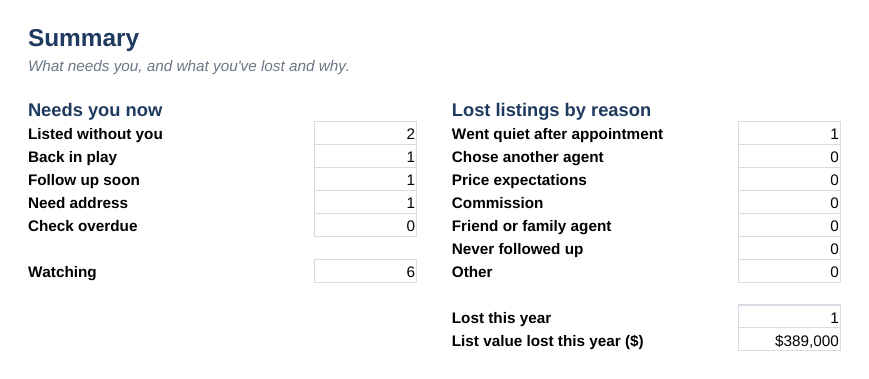
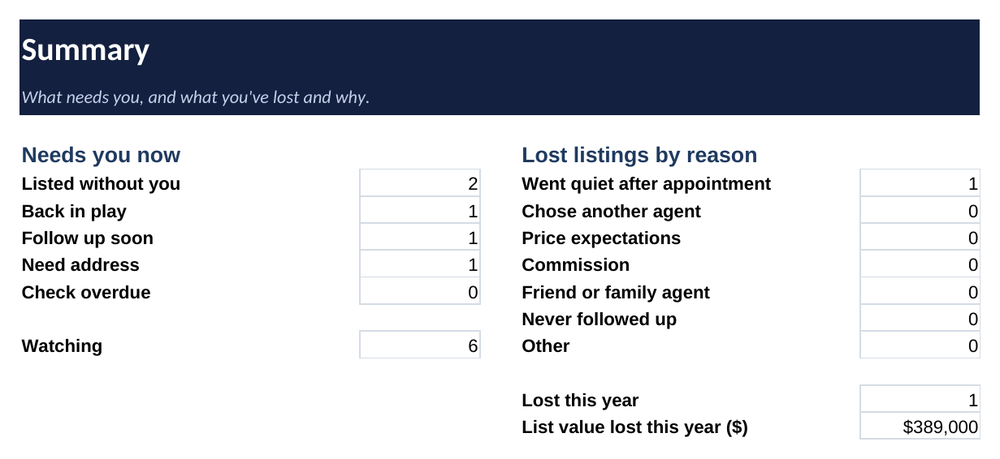
Add interactive KPI demo page, live-dashboard example and refreshed screenshots
Claude-Session: https://claude.ai/code/session_017XgMm3BH1KbaebMLNSHPJr

diff --git a/docs/demo/index.html b/docs/demo/index.html
@@ -1,0 +1,155 @@
+<!doctype html>
+<html lang="en">
+<head>
+<meta charset="utf-8">
+<meta name="viewport" content="width=device-width, initial-scale=1">
+<title>Try the KPI dashboard | Ai Deal Deck</title>
+<meta name="description" content="Play with a sample of the live KPI dashboard Claude builds from your tracker. Change the goal, switch lead sources on and off, and watch the numbers move.">
+<meta property="og:title" content="Try the KPI dashboard | Ai Deal Deck">
+<meta property="og:description" content="Play with a sample of the live KPI dashboard Claude builds from your tracker. Change the goal, switch lead sources on and off, and watch the numbers move.">
+<meta property="og:type" content="website">
+<meta property="og:image" content="https://aidealdeck.com/assets/og.png">
+<meta property="og:url" content="https://aidealdeck.com/demo/">
+<link rel="canonical" href="https://aidealdeck.com/demo/">
+<link rel="icon" href="/assets/favicon.svg" type="image/svg+xml">
+<link rel="preconnect" href="https://fonts.googleapis.com">
+<link rel="preconnect" href="https://fonts.gstatic.com" crossorigin>
+<link href="https://fonts.googleapis.com/css2?family=Inter:wght@400;500;600;700&family=Space+Grotesk:wght@500;600;700&display=swap" rel="stylesheet">
+<link rel="stylesheet" href="/assets/site.css">
+<!-- Google Analytics + Meta Pixel (both skipped when the browser sends a Global Privacy Control signal) -->
+<script>
+window.dataLayer=window.dataLayer||[];function gtag(){dataLayer.push(arguments);}
+if(!navigator.globalPrivacyControl){
+(function(){var g=document.createElement('script');g.async=true;g.src='https://www.googletagmanager.com/gtag/js?id=G-GG42FBV7Z8';document.head.appendChild(g);})();
+gtag('js',new Date());gtag('config','G-GG42FBV7Z8');
+!function(f,b,e,v,n,t,s){if(f.fbq)return;n=f.fbq=function(){n.callMethod?n.callMethod.apply(n,arguments):n.queue.push(arguments)};if(!f._fbq)f._fbq=n;n.push=n;n.loaded=!0;n.version='2.0';n.queue=[];t=b.createElement(e);t.async=!0;t.src=v;s=b.getElementsByTagName(e)[0];s.parentNode.insertBefore(t,s)}(window,document,'script','https://connect.facebook.net/en_US/fbevents.js');
+fbq('init','2684470808323193');
+fbq('track','PageView');
+fbq('track','ViewContent',{content_name:'KPI demo',value:19,currency:'USD'});
+}
+/* Path tracking: tag every buy link with the page, the button position and the ad campaign that brought the visitor. */
+(function(){
+var page=({'/':'deck','/numbers/':'numbers','/free/':'free','/demo/':'demo'})[location.pathname]||'other';
+var ad={};try{var q=new URLSearchParams(location.search);['utm_source','utm_campaign','utm_term'].forEach(function(k){var v=q.get(k);if(v)ad[k]=v.slice(0,80);});
+ if(Object.keys(ad).length){sessionStorage.setItem('ad',JSON.stringify(ad));}else{ad=JSON.parse(sessionStorage.getItem('ad')||'{}');}
+ if(!sessionStorage.getItem('land'))sessionStorage.setItem('land',page);}catch(e){}
+var land=page;try{land=sessionStorage.getItem('land')||page;}catch(e){}
+function pos(a){var m=[['.topbar','topbar'],['.hero','hero'],['.cards','cardgrid'],['.offer','pricebox'],['.stack','deckgrid'],['.alt-buy','textlink']];for(var i=0;i<m.length;i++){if(a.closest(m[i][0]))return m[i][1];}return 'other';}
+function tag(){document.querySelectorAll('a[data-buy]').forEach(function(a){try{var u=new URL(a.href);u.searchParams.set('utm_source',ad.utm_source||'direct');u.searchParams.set('utm_medium','site_'+land);u.searchParams.set('utm_campaign',ad.utm_campaign||'none');u.searchParams.set('utm_content',page+'_'+pos(a));a.href=u.toString();a.setAttribute('data-pos',pos(a));}catch(e){}});}
+if(document.readyState==='loading'){document.addEventListener('DOMContentLoaded',tag);}else{tag();}
+document.addEventListener('click',function(e){var a=e.target.closest('a[data-buy]');if(!a)return;gtag('event','begin_checkout',{item_name:a.getAttribute('data-buy'),value:parseFloat(a.getAttribute('data-value')||'0'),currency:'USD',page:page,landing:land,position:a.getAttribute('data-pos')||''});if(!window.fbq)return;fbq('track','InitiateCheckout',{content_name:a.getAttribute('data-buy'),value:parseFloat(a.getAttribute('data-value')||'0'),currency:'USD',page:page,landing:land,position:a.getAttribute('data-pos')||''});});
+})();
+</script>
+<noscript><img height="1" width="1" style="display:none" alt="" src="https://www.facebook.com/tr?id=2684470808323193&ev=PageView&noscript=1"></noscript>
+<script>
+/* Sale name: Black Friday through Nov 29, Cyber Monday on Nov 30 (Central time). Same price both days. */
+document.addEventListener('DOMContentLoaded',function(){try{var d=new Intl.DateTimeFormat('en-CA',{timeZone:'America/Chicago'}).format(new Date());if(d==='2026-11-30'){document.querySelectorAll('[data-sale]').forEach(function(e){e.textContent='Cyber Monday launch price';});}}catch(e){}});
+</script>
+</head>
+<body>
+<header class="topbar">
+<a class="brand" href="/"><svg width="26" height="26" viewBox="0 0 24 24" fill="none" stroke="#D4AF5A" stroke-width="1.6" aria-hidden="true"><rect x="3" y="6" width="10" height="14" rx="1.5" transform="rotate(-12 8 13)"/><rect x="7" y="4" width="10" height="14" rx="1.5"/><rect x="11" y="6" width="10" height="14" rx="1.5" transform="rotate(12 16 13)"/></svg>Ai Deal Deck</a>
+<nav class="topnav" aria-label="Shop"><a href="/">The Deck</a><a href="/#cards">Single cards</a><a href="/free/">Free cards</a><a href="/demo/">Live demo</a></nav>
+<div class="note">Live demo · sample data</div>
+<a class="btn sm" href="https://shop.aidealdeck.com/l/the-ai-agent-deck?wanted=true" data-buy="The AI Agent Deck" data-value="49">Get the Deck</a>
+</header>
+<main>
+
+<style>
+#demo{background:#0E1730;color:#fff;padding:44px 20px 56px}
+#demo .dw{max-width:1180px;margin:0 auto}
+#demo h1{font-family:'Space Grotesk',Inter,sans-serif;font-size:clamp(28px,4vw,40px);margin:0;color:#fff}
+#demo h1 em{font-style:normal;color:#D4AF5A}
+#demo .sub{color:#8fa0c8;font-size:15px;margin-top:6px;max-width:70ch}
+.dctl{display:grid;grid-template-columns:repeat(auto-fit,minmax(260px,1fr));gap:14px;margin:22px 0 16px}
+.dctl label{display:block;background:#13203F;border:1px solid #D4AF5A;border-radius:14px;padding:14px 16px;font-size:14px;color:#c6d0ea}
+.dctl b{float:right;color:#D4AF5A;font-size:18px;font-family:'Space Grotesk',sans-serif}
+.dctl input{width:100%;margin-top:10px;accent-color:#D4AF5A}
+.dkp{display:grid;grid-template-columns:repeat(auto-fit,minmax(190px,1fr));gap:14px;margin-bottom:14px}
+.dt{background:#13203F;border:1px solid #26366a;border-radius:14px;padding:16px 18px;min-width:0}
+.dt.g{border-color:#D4AF5A;background:linear-gradient(160deg,#1a2a55,#13203F)}
+.dt .l{font-size:12px;letter-spacing:.1em;text-transform:uppercase;color:#8fa0c8;font-weight:700}
+.dt .v{font-family:'Space Grotesk',sans-serif;font-weight:700;font-size:34px;margin-top:6px;font-variant-numeric:tabular-nums}
+.dt.g .v{color:#D4AF5A}
+.dt .n{font-size:13px;color:#c6d0ea;margin-top:4px}
+.dbar{height:10px;background:#0b1226;border-radius:99px;margin-top:10px;overflow:hidden}.dbar i{display:block;height:100%;background:linear-gradient(90deg,#9c7d33,#D4AF5A);transition:width .35s}
+.dg{display:grid;grid-template-columns:repeat(auto-fit,minmax(320px,1fr));gap:14px}
+.dp{background:#13203F;border:1px solid #26366a;border-radius:14px;padding:16px 20px;min-width:0}
+.dp h3{margin:0 0 4px;font-family:'Space Grotesk',sans-serif;font-size:18px;color:#fff}
+.dp .hint{font-size:13px;color:#8fa0c8;margin-bottom:10px}
+.drow{display:grid;grid-template-columns:minmax(110px,150px) 1fr 84px;gap:10px;align-items:center;margin:8px 0;font-size:15px}
+.drow span{color:#c6d0ea}.drow i{height:20px;border-radius:5px;background:#D4AF5A;transition:width .35s;min-width:2px}.drow b{text-align:right;font-variant-numeric:tabular-nums}
+button.drow{width:100%;background:none;border:0;color:inherit;font:inherit;padding:6px 8px;margin:2px -8px;border-radius:8px;cursor:pointer;text-align:left}
+button.drow:hover{background:#1a2a55}button.drow:focus-visible{outline:2px solid #D4AF5A}
+button.drow.off span{text-decoration:line-through;color:#5a6686}button.drow.off i{background:#26366a}button.drow.off b{color:#5a6686}
+.dnote{margin-top:18px;color:#8fa0c8;font-size:13px}
+.dcta{display:flex;flex-wrap:wrap;gap:12px;align-items:center;margin-top:22px}
+</style>
+<section id="demo">
+<div class="dw">
+<h1>Try the <em>KPI dashboard</em></h1>
+<p class="sub">This is a working sample of the live dashboard Claude builds from your KPI Tracker. Move the sliders and switch lead sources off to see what each one is really worth. Sample data; yours runs on your own numbers and may look different.</p>
+
+<div class="dctl">
+<label>Yearly GCI goal <b id="o-goal"></b><input id="i-goal" type="range" min="100000" max="600000" step="10000" value="300000" aria-label="Yearly GCI goal"></label>
+<label>Average GCI per closing <b id="o-avg"></b><input id="i-avg" type="range" min="5000" max="25000" step="500" value="12000" aria-label="Average GCI per closing"></label>
+<label>Weeks left in the year <b id="o-wk"></b><input id="i-wk" type="range" min="1" max="52" step="1" value="5" aria-label="Weeks left in the year"></label>
+</div>
+
+<div class="dkp">
+<div class="dt g"><div class="l">Closed GCI this year</div><div class="v" id="k-gci"></div><div class="n" id="k-pct"></div><div class="dbar"><i id="k-bar"></i></div></div>
+<div class="dt"><div class="l">Needed per week</div><div class="v" id="k-week"></div><div class="n" id="k-left"></div></div>
+<div class="dt"><div class="l">Closings still needed</div><div class="v" id="k-need"></div><div class="n" id="k-done"></div></div>
+<div class="dt"><div class="l">Lead to closed</div><div class="v" id="k-conv"></div><div class="n" id="k-leads"></div></div>
+<div class="dt"><div class="l">Cost per closing</div><div class="v" id="k-cpc"></div><div class="n" id="k-spend"></div></div>
+</div>
+
+<div class="dg">
+<div class="dp"><h3>Closed GCI by lead source</h3><div class="hint">Click a source to switch it off and see what you would lose.</div><div id="d-src"></div></div>
+<div class="dp"><h3>Your funnel this year</h3><div class="hint">Where deals drop out, lead to closed.</div><div id="d-fun"></div></div>
+</div>
+
+<p class="dnote">Sample data for a made-up team. The KPI Tracker card includes the spreadsheet these numbers come from, and Claude builds the live dashboard with you during setup. Needs your own Claude account.</p>
+<div class="dcta">
+<a class="btn" href="https://shop.aidealdeck.com/l/the-ai-agent-deck?wanted=true" data-buy="The AI Agent Deck" data-value="49">Get all 5 cards: <s class="strike sm">$199</s> $49 <svg width="20" height="20" viewBox="0 0 24 24" fill="none" stroke="currentColor" stroke-width="2.4" aria-hidden="true"><path d="M5 12h14M13 6l6 6-6 6"/></svg></a>
+<a class="link-quiet" style="color:#c6d0ea" href="https://shop.aidealdeck.com/l/real-estate-kpi-tracker?wanted=true" data-buy="Real Estate KPI Tracker" data-value="19">or just the KPI Tracker for <s>$49</s> $19</a>
+</div>
+</div>
+</section>
+<script>
+(function(){
+var S=[["Zillow",10800,45,21,16,9,5,65510],["Sign calls",0,15,7,6,4,3,34580],["Website",1800,20,7,4,3,3,33960],["Sphere & referrals",0,25,13,9,4,3,33350],["Realtor.com",4800,30,6,4,1,1,11000],["Open houses",600,15,4,3,0,0,0]];
+var on=S.map(function(){return true}); var $=function(i){return document.getElementById(i)};
+var usd=function(n){return (n<0?'-$':'$')+Math.abs(Math.round(n)).toLocaleString('en-US')};
+var src=$('d-src'); S.forEach(function(s,i){var b=document.createElement('button');b.type='button';b.className='drow';b.setAttribute('aria-pressed','true');b.innerHTML='<span></span><i></i><b></b>';b.firstChild.textContent=s[0];b.addEventListener('click',function(){on[i]=!on[i];b.classList.toggle('off',!on[i]);b.setAttribute('aria-pressed',on[i]?'true':'false');draw();});src.appendChild(b);});
+var F=["Leads","Appointments set","Appointments held","Signed","Closed"]; var fun=$('d-fun'); F.forEach(function(n){var d=document.createElement('div');d.className='drow';d.innerHTML='<span></span><i></i><b></b>';d.firstChild.textContent=n;fun.appendChild(d);});
+function draw(){
+  var goal=+$('i-goal').value, avg=+$('i-avg').value, wk=+$('i-wk').value;
+  $('o-goal').textContent=usd(goal); $('o-avg').textContent=usd(avg); $('o-wk').textContent=wk;
+  var t=[0,0,0,0,0,0,0]; S.forEach(function(s,i){if(on[i])for(var k=1;k<8;k++)t[k-1]+=s[k];});
+  var gci=t[6], closed=t[5], leads=t[1], togo=Math.max(0,goal-gci);
+  $('k-gci').textContent=usd(gci); $('k-pct').textContent=(goal?(gci/goal*100).toFixed(1):'0')+'% of your '+usd(goal)+' goal'; $('k-bar').style.width=Math.min(100,goal?gci/goal*100:0)+'%';
+  $('k-week').textContent=togo?usd(togo/wk):'Goal met'; $('k-left').textContent=usd(togo)+' still to go';
+  $('k-need').textContent=Math.ceil(togo/avg); $('k-done').textContent=closed+' closed so far';
+  $('k-conv').textContent=leads?(closed/leads*100).toFixed(1)+'%':'—'; $('k-leads').textContent=leads+' leads this year';
+  $('k-cpc').textContent=closed?usd(t[0]/closed):'—'; $('k-spend').textContent=usd(t[0])+' spent on leads';
+  var mx=Math.max.apply(null,S.map(function(s){return s[7]}));
+  [].forEach.call(src.children,function(b,i){b.children[1].style.width=(S[i][7]/mx*100)+'%';b.children[2].textContent=usd(S[i][7]);});
+  var fv=[t[1],t[2],t[3],t[4],t[5]]; [].forEach.call(fun.children,function(d,i){d.children[1].style.width=(fv[0]?fv[i]/fv[0]*100:0)+'%';d.children[2].textContent=fv[i];});
+}
+['i-goal','i-avg','i-wk'].forEach(function(i){$(i).addEventListener('input',draw)}); draw();
+})();
+</script>
+</main>
+<footer>
+<div class="wrap">
+<div style="max-width:720px">Ai Deal Deck is a brand of The Showing Partner LLC. Not affiliated with or endorsed by any brokerage, MLS, trade association, Anthropic, Google or CRM. Claude is a trademark of Anthropic, PBC. No guarantee of results. Not legal, tax, financial or brokerage advice.</div>
+<nav aria-label="Legal">
+<a href="/terms/">Terms</a>
+<a href="/privacy/">Privacy</a>
+<a href="mailto:support@aidealdeck.com">support@aidealdeck.com</a>
+</nav>
+</div>
+</footer>
+</body>
+</html>

diff --git a/src/demo.html b/src/demo.html
@@ -1,0 +1,87 @@
+<!--META {"out":"demo/index.html","path":"/demo/","title":"Try the KPI dashboard | Ai Deal Deck","desc":"Play with a sample of the live KPI dashboard Claude builds from your tracker. Change the goal, switch lead sources on and off, and watch the numbers move.","topnote":"Live demo · sample data","topbtn":"<a class=\"btn sm\" href=\"{{DECK}}\" data-buy=\"The AI Agent Deck\" data-value=\"49\">Get the Deck</a>","pixel":"fbq('track','ViewContent',{content_name:'KPI demo',value:19,currency:'USD'});"} -->
+
+<style>
+#demo{background:#0E1730;color:#fff;padding:44px 20px 56px}
+#demo .dw{max-width:1180px;margin:0 auto}
+#demo h1{font-family:'Space Grotesk',Inter,sans-serif;font-size:clamp(28px,4vw,40px);margin:0;color:#fff}
+#demo h1 em{font-style:normal;color:#D4AF5A}
+#demo .sub{color:#8fa0c8;font-size:15px;margin-top:6px;max-width:70ch}
+.dctl{display:grid;grid-template-columns:repeat(auto-fit,minmax(260px,1fr));gap:14px;margin:22px 0 16px}
+.dctl label{display:block;background:#13203F;border:1px solid #D4AF5A;border-radius:14px;padding:14px 16px;font-size:14px;color:#c6d0ea}
+.dctl b{float:right;color:#D4AF5A;font-size:18px;font-family:'Space Grotesk',sans-serif}
+.dctl input{width:100%;margin-top:10px;accent-color:#D4AF5A}
+.dkp{display:grid;grid-template-columns:repeat(auto-fit,minmax(190px,1fr));gap:14px;margin-bottom:14px}
+.dt{background:#13203F;border:1px solid #26366a;border-radius:14px;padding:16px 18px;min-width:0}
+.dt.g{border-color:#D4AF5A;background:linear-gradient(160deg,#1a2a55,#13203F)}
+.dt .l{font-size:12px;letter-spacing:.1em;text-transform:uppercase;color:#8fa0c8;font-weight:700}
+.dt .v{font-family:'Space Grotesk',sans-serif;font-weight:700;font-size:34px;margin-top:6px;font-variant-numeric:tabular-nums}
+.dt.g .v{color:#D4AF5A}
+.dt .n{font-size:13px;color:#c6d0ea;margin-top:4px}
+.dbar{height:10px;background:#0b1226;border-radius:99px;margin-top:10px;overflow:hidden}.dbar i{display:block;height:100%;background:linear-gradient(90deg,#9c7d33,#D4AF5A);transition:width .35s}
+.dg{display:grid;grid-template-columns:repeat(auto-fit,minmax(320px,1fr));gap:14px}
+.dp{background:#13203F;border:1px solid #26366a;border-radius:14px;padding:16px 20px;min-width:0}
+.dp h3{margin:0 0 4px;font-family:'Space Grotesk',sans-serif;font-size:18px;color:#fff}
+.dp .hint{font-size:13px;color:#8fa0c8;margin-bottom:10px}
+.drow{display:grid;grid-template-columns:minmax(110px,150px) 1fr 84px;gap:10px;align-items:center;margin:8px 0;font-size:15px}
+.drow span{color:#c6d0ea}.drow i{height:20px;border-radius:5px;background:#D4AF5A;transition:width .35s;min-width:2px}.drow b{text-align:right;font-variant-numeric:tabular-nums}
+button.drow{width:100%;background:none;border:0;color:inherit;font:inherit;padding:6px 8px;margin:2px -8px;border-radius:8px;cursor:pointer;text-align:left}
+button.drow:hover{background:#1a2a55}button.drow:focus-visible{outline:2px solid #D4AF5A}
+button.drow.off span{text-decoration:line-through;color:#5a6686}button.drow.off i{background:#26366a}button.drow.off b{color:#5a6686}
+.dnote{margin-top:18px;color:#8fa0c8;font-size:13px}
+.dcta{display:flex;flex-wrap:wrap;gap:12px;align-items:center;margin-top:22px}
+</style>
+<section id="demo">
+<div class="dw">
+<h1>Try the <em>KPI dashboard</em></h1>
+<p class="sub">This is a working sample of the live dashboard Claude builds from your KPI Tracker. Move the sliders and switch lead sources off to see what each one is really worth. Sample data; yours runs on your own numbers and may look different.</p>
+
+<div class="dctl">
+<label>Yearly GCI goal <b id="o-goal"></b><input id="i-goal" type="range" min="100000" max="600000" step="10000" value="300000" aria-label="Yearly GCI goal"></label>
+<label>Average GCI per closing <b id="o-avg"></b><input id="i-avg" type="range" min="5000" max="25000" step="500" value="12000" aria-label="Average GCI per closing"></label>
+<label>Weeks left in the year <b id="o-wk"></b><input id="i-wk" type="range" min="1" max="52" step="1" value="5" aria-label="Weeks left in the year"></label>
+</div>
+
+<div class="dkp">
+<div class="dt g"><div class="l">Closed GCI this year</div><div class="v" id="k-gci"></div><div class="n" id="k-pct"></div><div class="dbar"><i id="k-bar"></i></div></div>
+<div class="dt"><div class="l">Needed per week</div><div class="v" id="k-week"></div><div class="n" id="k-left"></div></div>
+<div class="dt"><div class="l">Closings still needed</div><div class="v" id="k-need"></div><div class="n" id="k-done"></div></div>
+<div class="dt"><div class="l">Lead to closed</div><div class="v" id="k-conv"></div><div class="n" id="k-leads"></div></div>
+<div class="dt"><div class="l">Cost per closing</div><div class="v" id="k-cpc"></div><div class="n" id="k-spend"></div></div>
+</div>
+
+<div class="dg">
+<div class="dp"><h3>Closed GCI by lead source</h3><div class="hint">Click a source to switch it off and see what you would lose.</div><div id="d-src"></div></div>
+<div class="dp"><h3>Your funnel this year</h3><div class="hint">Where deals drop out, lead to closed.</div><div id="d-fun"></div></div>
+</div>
+
+<p class="dnote">Sample data for a made-up team. The KPI Tracker card includes the spreadsheet these numbers come from, and Claude builds the live dashboard with you during setup. Needs your own Claude account.</p>
+<div class="dcta">
+<a class="btn" href="{{DECK}}" data-buy="The AI Agent Deck" data-value="49">Get all 5 cards: <s class="strike sm">$199</s> $49 {{ARROW}}</a>
+<a class="link-quiet" style="color:#c6d0ea" href="{{KPI}}" data-buy="Real Estate KPI Tracker" data-value="19">or just the KPI Tracker for <s>$49</s> $19</a>
+</div>
+</div>
+</section>
+<script>
+(function(){
+var S=[["Zillow",10800,45,21,16,9,5,65510],["Sign calls",0,15,7,6,4,3,34580],["Website",1800,20,7,4,3,3,33960],["Sphere & referrals",0,25,13,9,4,3,33350],["Realtor.com",4800,30,6,4,1,1,11000],["Open houses",600,15,4,3,0,0,0]];
+var on=S.map(function(){return true}); var $=function(i){return document.getElementById(i)};
+var usd=function(n){return (n<0?'-$':'$')+Math.abs(Math.round(n)).toLocaleString('en-US')};
+var src=$('d-src'); S.forEach(function(s,i){var b=document.createElement('button');b.type='button';b.className='drow';b.setAttribute('aria-pressed','true');b.innerHTML='<span></span><i></i><b></b>';b.firstChild.textContent=s[0];b.addEventListener('click',function(){on[i]=!on[i];b.classList.toggle('off',!on[i]);b.setAttribute('aria-pressed',on[i]?'true':'false');draw();});src.appendChild(b);});
+var F=["Leads","Appointments set","Appointments held","Signed","Closed"]; var fun=$('d-fun'); F.forEach(function(n){var d=document.createElement('div');d.className='drow';d.innerHTML='<span></span><i></i><b></b>';d.firstChild.textContent=n;fun.appendChild(d);});
+function draw(){
+  var goal=+$('i-goal').value, avg=+$('i-avg').value, wk=+$('i-wk').value;
+  $('o-goal').textContent=usd(goal); $('o-avg').textContent=usd(avg); $('o-wk').textContent=wk;
+  var t=[0,0,0,0,0,0,0]; S.forEach(function(s,i){if(on[i])for(var k=1;k<8;k++)t[k-1]+=s[k];});
+  var gci=t[6], closed=t[5], leads=t[1], togo=Math.max(0,goal-gci);
+  $('k-gci').textContent=usd(gci); $('k-pct').textContent=(goal?(gci/goal*100).toFixed(1):'0')+'% of your '+usd(goal)+' goal'; $('k-bar').style.width=Math.min(100,goal?gci/goal*100:0)+'%';
+  $('k-week').textContent=togo?usd(togo/wk):'Goal met'; $('k-left').textContent=usd(togo)+' still to go';
+  $('k-need').textContent=Math.ceil(togo/avg); $('k-done').textContent=closed+' closed so far';
+  $('k-conv').textContent=leads?(closed/leads*100).toFixed(1)+'%':'—'; $('k-leads').textContent=leads+' leads this year';
+  $('k-cpc').textContent=closed?usd(t[0]/closed):'—'; $('k-spend').textContent=usd(t[0])+' spent on leads';
+  var mx=Math.max.apply(null,S.map(function(s){return s[7]}));
+  [].forEach.call(src.children,function(b,i){b.children[1].style.width=(S[i][7]/mx*100)+'%';b.children[2].textContent=usd(S[i][7]);});
+  var fv=[t[1],t[2],t[3],t[4],t[5]]; [].forEach.call(fun.children,function(d,i){d.children[1].style.width=(fv[0]?fv[i]/fv[0]*100:0)+'%';d.children[2].textContent=fv[i];});
+}
+['i-goal','i-avg','i-wk'].forEach(function(i){$(i).addEventListener('input',draw)}); draw();
+})();
+</script>

diff --git a/docs/index.html b/docs/index.html
@@ -29,7 +29,7 @@ fbq('track','ViewContent',{content_name:'The AI Agent Deck',value:49,currency:'U
 }
 /* Path tracking: tag every buy link with the page, the button position and the ad campaign that brought the visitor. */
 (function(){
-var page=({'/':'deck','/numbers/':'numbers','/free/':'free'})[location.pathname]||'other';
+var page=({'/':'deck','/numbers/':'numbers','/free/':'free','/demo/':'demo'})[location.pathname]||'other';
 var ad={};try{var q=new URLSearchParams(location.search);['utm_source','utm_campaign','utm_term'].forEach(function(k){var v=q.get(k);if(v)ad[k]=v.slice(0,80);});
  if(Object.keys(ad).length){sessionStorage.setItem('ad',JSON.stringify(ad));}else{ad=JSON.parse(sessionStorage.getItem('ad')||'{}');}
  if(!sessionStorage.getItem('land'))sessionStorage.setItem('land',page);}catch(e){}
@@ -49,7 +49,7 @@ document.addEventListener('DOMContentLoaded',function(){try{var d=new Intl.DateT
 <body>
 <header class="topbar">
 <a class="brand" href="/"><svg width="26" height="26" viewBox="0 0 24 24" fill="none" stroke="#D4AF5A" stroke-width="1.6" aria-hidden="true"><rect x="3" y="6" width="10" height="14" rx="1.5" transform="rotate(-12 8 13)"/><rect x="7" y="4" width="10" height="14" rx="1.5"/><rect x="11" y="6" width="10" height="14" rx="1.5" transform="rotate(12 16 13)"/></svg>Ai Deal Deck</a>
-<nav class="topnav" aria-label="Shop"><a href="/">The Deck</a><a href="/#cards">Single cards</a><a href="/free/">Free cards</a></nav>
+<nav class="topnav" aria-label="Shop"><a href="/">The Deck</a><a href="/#cards">Single cards</a><a href="/free/">Free cards</a><a href="/demo/">Live demo</a></nav>
 <div class="note"><span data-sale>Black Friday launch price</span> $49 through Nov 30 · regular price $199 from Dec 1</div>
 <a class="btn sm" href="https://shop.aidealdeck.com/l/the-ai-agent-deck?wanted=true" data-buy="The AI Agent Deck" data-value="49">Get the Deck</a>
 </header>
@@ -144,7 +144,7 @@ document.addEventListener('DOMContentLoaded',function(){try{var d=new Intl.DateT
 </div>
 </section>
 
-<section class="white"><div class="wrap"><h2 class="h2 center">See it before you buy</h2><video controls playsinline preload="none" poster="/assets/video/kpi-tracker.jpg" style="display:block;width:100%;max-width:960px;aspect-ratio:16/9;margin:28px auto 8px;border-radius:16px;border:1px solid rgba(212,175,90,.55);background:#0E1730"><source src="/assets/video/kpi-tracker.mp4" type="video/mp4"></video><p class="center" style="color:var(--muted);margin:0 0 28px">The KPI Tracker dashboard, 23 seconds. Sample data.</p><div class="shots"><figure class="shot" style="margin:0"><img src="/assets/shots/kpi.png" alt="KPI Tracker funnel view (sample data)"><figcaption>KPI Tracker funnel view (sample data)</figcaption></figure><figure class="shot" style="margin:0"><img src="/assets/shots/gci.png" alt="Commission &amp; GCI Ledger (sample data)"><figcaption>Commission &amp; GCI Ledger (sample data)</figcaption></figure><figure class="shot" style="margin:0"><img src="/assets/shots/watch.png" alt="Listing Watchdog summary (sample data)"><figcaption>Listing Watchdog summary (sample data)</figcaption></figure></div></div></section>
+<section class="white"><div class="wrap"><h2 class="h2 center">See it before you buy</h2><video controls playsinline preload="none" poster="/assets/video/kpi-tracker.jpg" style="display:block;width:100%;max-width:960px;aspect-ratio:16/9;margin:28px auto 8px;border-radius:16px;border:1px solid rgba(212,175,90,.55);background:#0E1730"><source src="/assets/video/kpi-tracker.mp4" type="video/mp4"></video><p class="center" style="color:var(--muted);margin:0 0 28px">The KPI Tracker, 23 seconds. Sample data. <a href="/demo/"><b>Play with the live demo</b></a></p><div class="shots"><figure class="shot" style="margin:0"><img src="/assets/shots/live.png" alt="Example of the live dashboard Claude builds from your KPI Tracker (sample data; yours may look different)"><figcaption>Example of the live dashboard Claude builds from your KPI Tracker (sample data; yours may look different)</figcaption></figure><figure class="shot" style="margin:0"><img src="/assets/shots/kpi.png" alt="KPI Tracker spreadsheet dashboard (sample data)"><figcaption>KPI Tracker spreadsheet dashboard (sample data)</figcaption></figure><figure class="shot" style="margin:0"><img src="/assets/shots/gci.png" alt="Commission &amp; GCI Ledger (sample data)"><figcaption>Commission &amp; GCI Ledger (sample data)</figcaption></figure><figure class="shot" style="margin:0"><img src="/assets/shots/watch.png" alt="Listing Watchdog summary (sample data)"><figcaption>Listing Watchdog summary (sample data)</figcaption></figure></div></div></section>
 
 <section id="buy" class="dark">
 <div class="offer">

diff --git a/docs/numbers/index.html b/docs/numbers/index.html
@@ -29,7 +29,7 @@ fbq('track','ViewContent',{content_name:'KPI hook',value:49,currency:'USD'});
 }
 /* Path tracking: tag every buy link with the page, the button position and the ad campaign that brought the visitor. */
 (function(){
-var page=({'/':'deck','/numbers/':'numbers','/free/':'free'})[location.pathname]||'other';
+var page=({'/':'deck','/numbers/':'numbers','/free/':'free','/demo/':'demo'})[location.pathname]||'other';
 var ad={};try{var q=new URLSearchParams(location.search);['utm_source','utm_campaign','utm_term'].forEach(function(k){var v=q.get(k);if(v)ad[k]=v.slice(0,80);});
  if(Object.keys(ad).length){sessionStorage.setItem('ad',JSON.stringify(ad));}else{ad=JSON.parse(sessionStorage.getItem('ad')||'{}');}
  if(!sessionStorage.getItem('land'))sessionStorage.setItem('land',page);}catch(e){}
@@ -49,7 +49,7 @@ document.addEventListener('DOMContentLoaded',function(){try{var d=new Intl.DateT
 <body>
 <header class="topbar">
 <a class="brand" href="/"><svg width="26" height="26" viewBox="0 0 24 24" fill="none" stroke="#D4AF5A" stroke-width="1.6" aria-hidden="true"><rect x="3" y="6" width="10" height="14" rx="1.5" transform="rotate(-12 8 13)"/><rect x="7" y="4" width="10" height="14" rx="1.5"/><rect x="11" y="6" width="10" height="14" rx="1.5" transform="rotate(12 16 13)"/></svg>Ai Deal Deck</a>
-<nav class="topnav" aria-label="Shop"><a href="/">The Deck</a><a href="/#cards">Single cards</a><a href="/free/">Free cards</a></nav>
+<nav class="topnav" aria-label="Shop"><a href="/">The Deck</a><a href="/#cards">Single cards</a><a href="/free/">Free cards</a><a href="/demo/">Live demo</a></nav>
 <div class="note">The AI Agent Deck · $49 <span data-sale>Black Friday launch price</span> through Nov 30</div>
 <a class="btn sm" href="https://shop.aidealdeck.com/l/the-ai-agent-deck?wanted=true" data-buy="The AI Agent Deck" data-value="49">Get the Deck</a>
 </header>
@@ -97,7 +97,7 @@ document.addEventListener('DOMContentLoaded',function(){try{var d=new Intl.DateT
 <div class="tile"><h3>Which sources pay</h3><p>Which lead sources produce closings, and what each one costs per closing.</p></div>
 <div class="tile"><h3>Your real rates</h3><p>Starts on clearly labeled starting averages, then switches to your own conversion rates as your year fills in.</p></div>
 </div>
-<div class="shots" style="grid-template-columns:1fr"><figure class="shot" style="margin:0"><img src="/assets/shots/kpi.png" alt="KPI Tracker funnel view (sample data)"><figcaption>KPI Tracker funnel view (sample data)</figcaption></figure></div>
+<div class="shots" style="grid-template-columns:1fr"><figure class="shot" style="margin:0"><img src="/assets/shots/kpi.png" alt="KPI Tracker spreadsheet dashboard (sample data)"><figcaption>KPI Tracker spreadsheet dashboard (sample data)</figcaption></figure></div>
 </div>
 </section>
 

diff --git a/docs/free/index.html b/docs/free/index.html
@@ -29,7 +29,7 @@ fbq('track','ViewContent',{content_name:'Free hook',value:0,currency:'USD'});
 }
 /* Path tracking: tag every buy link with the page, the button position and the ad campaign that brought the visitor. */
 (function(){
-var page=({'/':'deck','/numbers/':'numbers','/free/':'free'})[location.pathname]||'other';
+var page=({'/':'deck','/numbers/':'numbers','/free/':'free','/demo/':'demo'})[location.pathname]||'other';
 var ad={};try{var q=new URLSearchParams(location.search);['utm_source','utm_campaign','utm_term'].forEach(function(k){var v=q.get(k);if(v)ad[k]=v.slice(0,80);});
  if(Object.keys(ad).length){sessionStorage.setItem('ad',JSON.stringify(ad));}else{ad=JSON.parse(sessionStorage.getItem('ad')||'{}');}
  if(!sessionStorage.getItem('land'))sessionStorage.setItem('land',page);}catch(e){}
@@ -49,7 +49,7 @@ document.addEventListener('DOMContentLoaded',function(){try{var d=new Intl.DateT
 <body>
 <header class="topbar">
 <a class="brand" href="/"><svg width="26" height="26" viewBox="0 0 24 24" fill="none" stroke="#D4AF5A" stroke-width="1.6" aria-hidden="true"><rect x="3" y="6" width="10" height="14" rx="1.5" transform="rotate(-12 8 13)"/><rect x="7" y="4" width="10" height="14" rx="1.5"/><rect x="11" y="6" width="10" height="14" rx="1.5" transform="rotate(12 16 13)"/></svg>Ai Deal Deck</a>
-<nav class="topnav" aria-label="Shop"><a href="/">The Deck</a><a href="/#cards">Single cards</a><a href="/free/">Free cards</a></nav>
+<nav class="topnav" aria-label="Shop"><a href="/">The Deck</a><a href="/#cards">Single cards</a><a href="/free/">Free cards</a><a href="/demo/">Live demo</a></nav>
 <div class="note">Free download · no card needed</div>
 <a class="btn sm" href="https://shop.aidealdeck.com/l/free-ai-agent-deck-bonuses" data-buy="Free bonus cards" data-value="0">Get it free</a>
 </header>

diff --git a/src/_head.html b/src/_head.html
@@ -29,7 +29,7 @@ fbq('track','PageView');
 }
 /* Path tracking: tag every buy link with the page, the button position and the ad campaign that brought the visitor. */
 (function(){
-var page=({'/':'deck','/numbers/':'numbers','/free/':'free'})[location.pathname]||'other';
+var page=({'/':'deck','/numbers/':'numbers','/free/':'free','/demo/':'demo'})[location.pathname]||'other';
 var ad={};try{var q=new URLSearchParams(location.search);['utm_source','utm_campaign','utm_term'].forEach(function(k){var v=q.get(k);if(v)ad[k]=v.slice(0,80);});
  if(Object.keys(ad).length){sessionStorage.setItem('ad',JSON.stringify(ad));}else{ad=JSON.parse(sessionStorage.getItem('ad')||'{}');}
  if(!sessionStorage.getItem('land'))sessionStorage.setItem('land',page);}catch(e){}
@@ -49,7 +49,7 @@ document.addEventListener('DOMContentLoaded',function(){try{var d=new Intl.DateT
 <body>
 <header class="topbar">
 <a class="brand" href="/"><svg width="26" height="26" viewBox="0 0 24 24" fill="none" stroke="#D4AF5A" stroke-width="1.6" aria-hidden="true"><rect x="3" y="6" width="10" height="14" rx="1.5" transform="rotate(-12 8 13)"/><rect x="7" y="4" width="10" height="14" rx="1.5"/><rect x="11" y="6" width="10" height="14" rx="1.5" transform="rotate(12 16 13)"/></svg>Ai Deal Deck</a>
-<nav class="topnav" aria-label="Shop"><a href="/">The Deck</a><a href="/#cards">Single cards</a><a href="/free/">Free cards</a></nav>
+<nav class="topnav" aria-label="Shop"><a href="/">The Deck</a><a href="/#cards">Single cards</a><a href="/free/">Free cards</a><a href="/demo/">Live demo</a></nav>
 <div class="note">{{TOPNOTE}}</div>
 {{TOPBTN}}
 </header>

diff --git a/docs/privacy/index.html b/docs/privacy/index.html
@@ -29,7 +29,7 @@ fbq('track','PageView');
 }
 /* Path tracking: tag every buy link with the page, the button position and the ad campaign that brought the visitor. */
 (function(){
-var page=({'/':'deck','/numbers/':'numbers','/free/':'free'})[location.pathname]||'other';
+var page=({'/':'deck','/numbers/':'numbers','/free/':'free','/demo/':'demo'})[location.pathname]||'other';
 var ad={};try{var q=new URLSearchParams(location.search);['utm_source','utm_campaign','utm_term'].forEach(function(k){var v=q.get(k);if(v)ad[k]=v.slice(0,80);});
  if(Object.keys(ad).length){sessionStorage.setItem('ad',JSON.stringify(ad));}else{ad=JSON.parse(sessionStorage.getItem('ad')||'{}');}
  if(!sessionStorage.getItem('land'))sessionStorage.setItem('land',page);}catch(e){}
@@ -49,7 +49,7 @@ document.addEventListener('DOMContentLoaded',function(){try{var d=new Intl.DateT
 <body>
 <header class="topbar">
 <a class="brand" href="/"><svg width="26" height="26" viewBox="0 0 24 24" fill="none" stroke="#D4AF5A" stroke-width="1.6" aria-hidden="true"><rect x="3" y="6" width="10" height="14" rx="1.5" transform="rotate(-12 8 13)"/><rect x="7" y="4" width="10" height="14" rx="1.5"/><rect x="11" y="6" width="10" height="14" rx="1.5" transform="rotate(12 16 13)"/></svg>Ai Deal Deck</a>
-<nav class="topnav" aria-label="Shop"><a href="/">The Deck</a><a href="/#cards">Single cards</a><a href="/free/">Free cards</a></nav>
+<nav class="topnav" aria-label="Shop"><a href="/">The Deck</a><a href="/#cards">Single cards</a><a href="/free/">Free cards</a><a href="/demo/">Live demo</a></nav>
 <div class="note"></div>
 
 </header>

diff --git a/docs/terms/index.html b/docs/terms/index.html
@@ -29,7 +29,7 @@ fbq('track','PageView');
 }
 /* Path tracking: tag every buy link with the page, the button position and the ad campaign that brought the visitor. */
 (function(){
-var page=({'/':'deck','/numbers/':'numbers','/free/':'free'})[location.pathname]||'other';
+var page=({'/':'deck','/numbers/':'numbers','/free/':'free','/demo/':'demo'})[location.pathname]||'other';
 var ad={};try{var q=new URLSearchParams(location.search);['utm_source','utm_campaign','utm_term'].forEach(function(k){var v=q.get(k);if(v)ad[k]=v.slice(0,80);});
  if(Object.keys(ad).length){sessionStorage.setItem('ad',JSON.stringify(ad));}else{ad=JSON.parse(sessionStorage.getItem('ad')||'{}');}
  if(!sessionStorage.getItem('land'))sessionStorage.setItem('land',page);}catch(e){}
@@ -49,7 +49,7 @@ document.addEventListener('DOMContentLoaded',function(){try{var d=new Intl.DateT
 <body>
 <header class="topbar">
 <a class="brand" href="/"><svg width="26" height="26" viewBox="0 0 24 24" fill="none" stroke="#D4AF5A" stroke-width="1.6" aria-hidden="true"><rect x="3" y="6" width="10" height="14" rx="1.5" transform="rotate(-12 8 13)"/><rect x="7" y="4" width="10" height="14" rx="1.5"/><rect x="11" y="6" width="10" height="14" rx="1.5" transform="rotate(12 16 13)"/></svg>Ai Deal Deck</a>
-<nav class="topnav" aria-label="Shop"><a href="/">The Deck</a><a href="/#cards">Single cards</a><a href="/free/">Free cards</a></nav>
+<nav class="topnav" aria-label="Shop"><a href="/">The Deck</a><a href="/#cards">Single cards</a><a href="/free/">Free cards</a><a href="/demo/">Live demo</a></nav>
 <div class="note"></div>
 
 </header>

diff --git a/build.py b/build.py
@@ -140,7 +140,8 @@ def stack_html():
 
 SHOT_DIR = os.path.join(ROOT, "assets", "shots")
 SHOT_CAPTIONS = {
-    "kpi": "KPI Tracker funnel view (sample data)",
+    "live": "Example of the live dashboard Claude builds from your KPI Tracker (sample data; yours may look different)",
+    "kpi": "KPI Tracker spreadsheet dashboard (sample data)",
     "gci": "Commission & GCI Ledger (sample data)",
     "watch": "Listing Watchdog summary (sample data)",
 }
@@ -164,7 +165,7 @@ def shots_section():
     figs = "".join(shot_fig(k) for k in SHOT_CAPTIONS)
     if not figs:
         return ""  # no placeholders on the live site
-    vid = '<video controls playsinline preload="none" poster="/assets/video/kpi-tracker.jpg" style="display:block;width:100%;max-width:960px;aspect-ratio:16/9;margin:28px auto 8px;border-radius:16px;border:1px solid rgba(212,175,90,.55);background:#0E1730"><source src="/assets/video/kpi-tracker.mp4" type="video/mp4"></video><p class="center" style="color:var(--muted);margin:0 0 28px">The KPI Tracker dashboard, 23 seconds. Sample data.</p>'
+    vid = '<video controls playsinline preload="none" poster="/assets/video/kpi-tracker.jpg" style="display:block;width:100%;max-width:960px;aspect-ratio:16/9;margin:28px auto 8px;border-radius:16px;border:1px solid rgba(212,175,90,.55);background:#0E1730"><source src="/assets/video/kpi-tracker.mp4" type="video/mp4"></video><p class="center" style="color:var(--muted);margin:0 0 28px">The KPI Tracker, 23 seconds. Sample data. <a href="/demo/"><b>Play with the live demo</b></a></p>'
     return f'<section class="white"><div class="wrap"><h2 class="h2 center">See it before you buy</h2>{vid}<div class="shots">{figs}</div></div></section>'
 
 def render(body):
